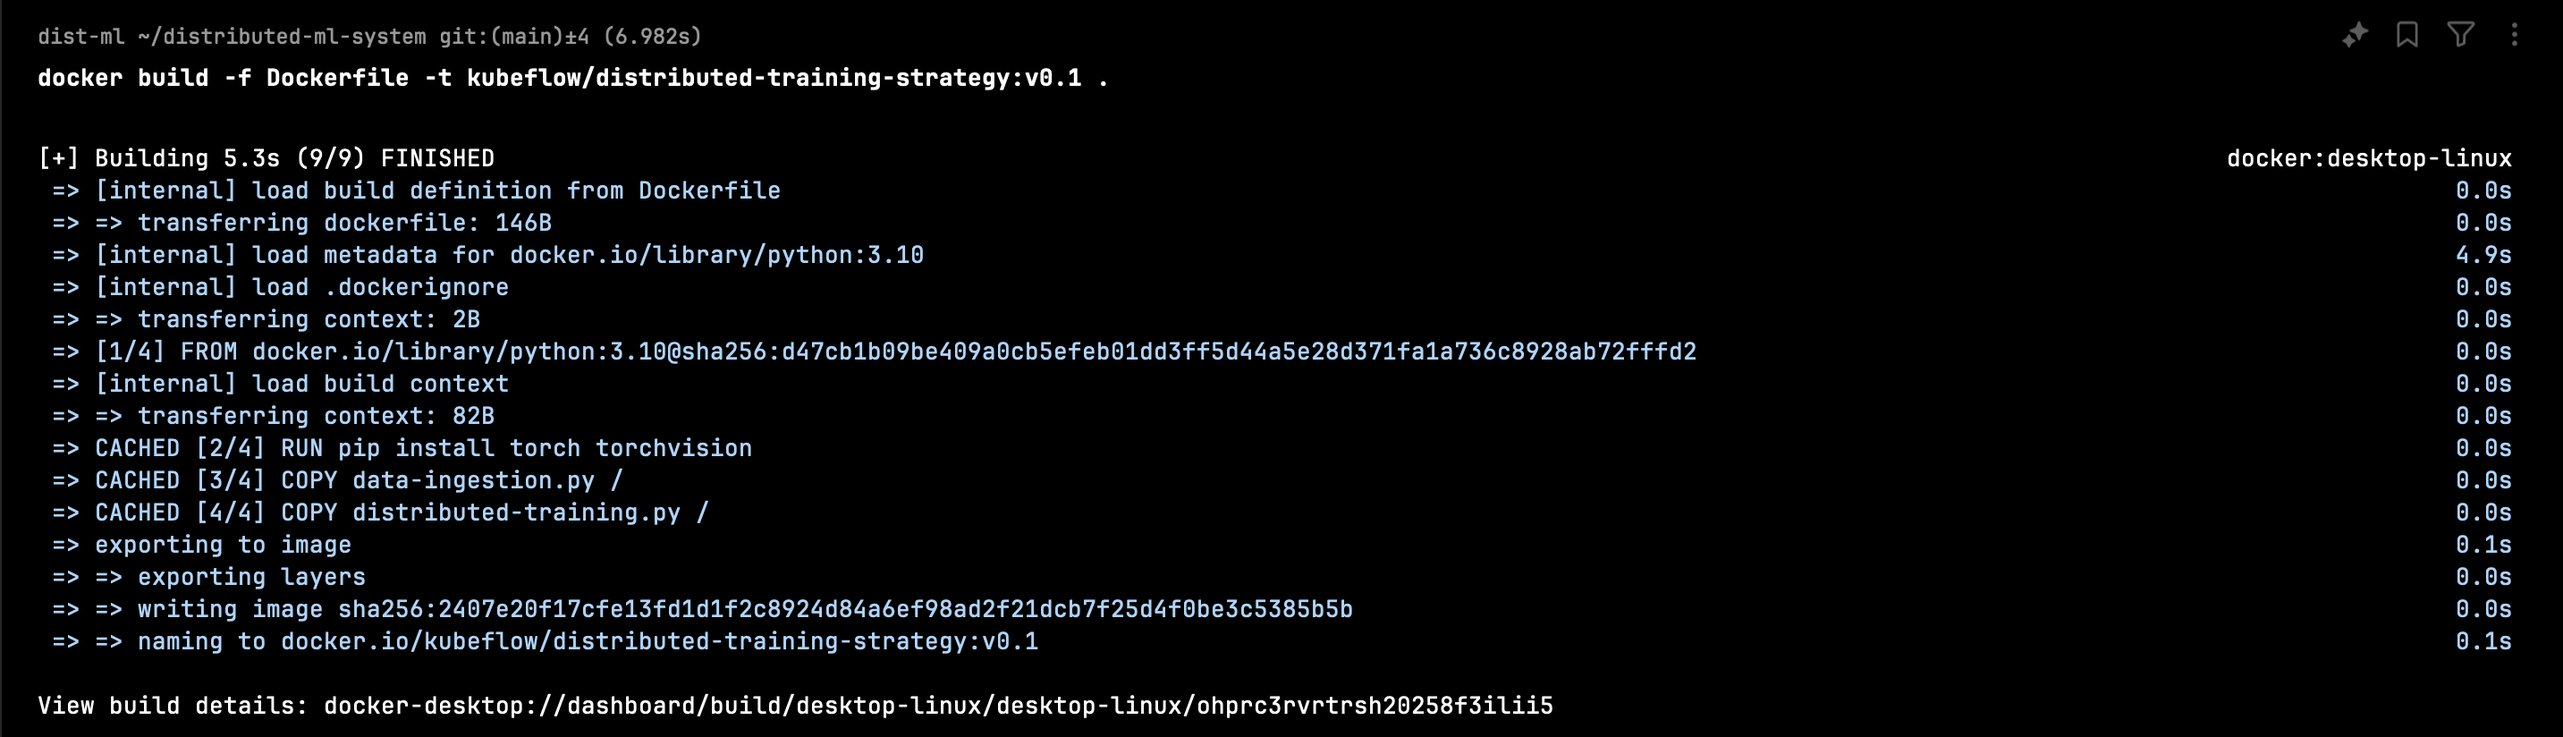
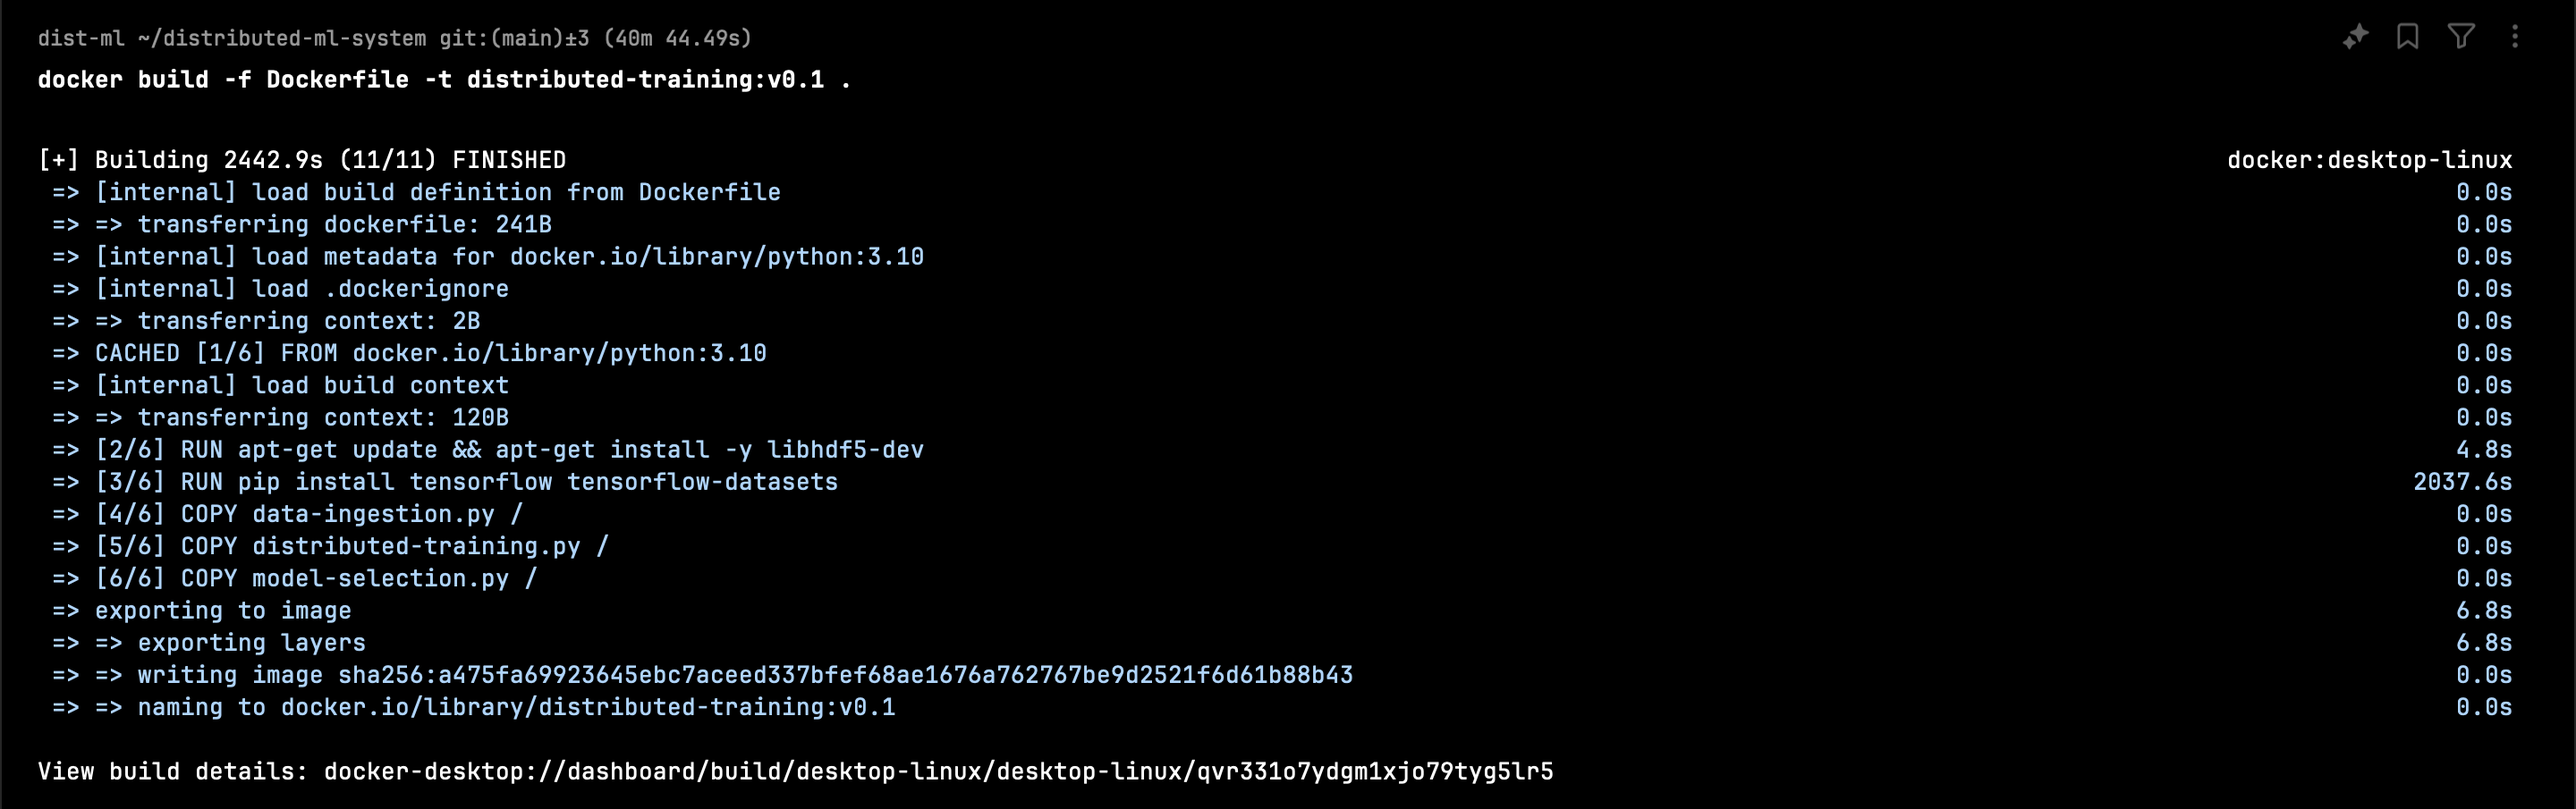
update the docker image name

diff --git a/inference-request.py b/inference-request.py
@@ -1,14 +1,14 @@
 import requests
 import json
 
-input_path = "mnist-input.json"
+input_path = "cifar10-input.json"
 
 with open(input_path) as json_file:
     data = json.load(json_file)
 
 response = requests.post(
-    url="http://localhost:8080/v1/models/tf-mnist:predict",
+    url="http://localhost:8080/v1/models/tf-cifar10:predict",
     data=json.dumps(data),
-    headers={"Host": "tf-mnist.kubeflow.example.com"},
+    headers={"Host": "tf-cifar10.kubeflow.example.com"},
 )
 print(response.text)

diff --git a/data_ingestion.py b/data_ingestion.py
@@ -1,0 +1,18 @@
+import Tensorflow_datasets as tfds
+import Tensorflow as tf
+
+
+def get_dataset():
+    """
+    Download training dataset
+    """
+    BUFFER_SIZE = 10000
+
+    def scale(image, label):
+        image = tf.cast(image, tf.float32)
+        image /= 255
+        return image, label
+
+    datasets, info = tfds.load(name="cifar10", with_info=True, as_supervised=True)
+    train = datasets["train"]
+    return train.map(scale).cache().shuffle(BUFFER_SIZE)

diff --git a/predict-service.py b/predict-service.py
@@ -7,6 +7,9 @@ model = keras.models.load_model("trained_model/saved_model_versions/1")
 
 # Scaling mnist data from (0, 255] to (0., 1.]
 def scale(image, label):
+    """
+    Scale image
+    """
     image = tf.cast(image, tf.float32)
     image /= 255
     return image, label

diff --git a/model-selection.py b/model-selection.py
@@ -7,6 +7,9 @@ import os
 
 # Scale the data from range [0, 255] to range [0, 1]
 def scale(image, label):
+    """
+    Scale image
+    """
     image = tf.cast(image, tf.float32)
     image /= 255
     return image, label

diff --git a/README.md b/README.md
@@ -372,7 +372,7 @@ COPY distributed-training.py /
 Next, build the docker image
 
 ```bash
-docker build -f Dockerfile -t kubeflow/ditributed-training-strategy:v0.1 .
+docker build -f Dockerfile -t kubeflow/distributed-training-strategy:v0.1 .
 ```
 
 ![docker-build](assets/docker-build.png)
@@ -381,7 +381,7 @@ docker build -f Dockerfile -t kubeflow/ditributed-training-strategy:v0.1 .
 I need to import the image to the k3d cluster as it cannot access the image registry.
 
 ```bash
-k3d image import docker.io/kubeflow/ditributed-training-strategy:v0.1 --cluster dist-ml
+k3d image import kubeflow/distributed-training-strategy:v0.1 --cluster dist-ml
 ```
 
 ![k3d-image-import](assets/k3d-image-import.png)
@@ -463,7 +463,7 @@ The `volumes` field specifies the persistent volume claim and `volumeMounts` fie
 Submit the TFJob to our cluster and start our distributed model training.
 
 ```bash
-kubectl create -f tfjob.yaml
+kubectl apply -f tfjob.yaml
 ```
 
 I can see two pods running our distributed training as we've specified `2` workers.
@@ -488,9 +488,9 @@ While training the model, I'm storing it in the `/saved_model_versions/1/` path.
 
 ```bash
 kubectl delete tfjob --all
-docker build -f Dockerfile -t kubeflow/ditributed-training-strategy:v0.1 .
-k3d image import kubeflow/ditributed-training-strategy:v0.1 --cluster fmnist
-kubectl create -f tfjob.yaml
+docker build -f Dockerfile -t kubeflow/distributed-training-strategy:v0.1 .
+k3d image import kubeflow/distributed-training-strategy:v0.1 --cluster dist-ml
+kubectl apply -f tfjob.yaml
 ```
 
 Voila! model training's done.
@@ -498,7 +498,7 @@ Voila! model training's done.
 Next, evaluate the model's performance.
 
 ```bash
-kubectl create -f predict-service.yaml
+kubectl apply -f predict-service.yaml
 ```
 
 Finally, I have a trained model stored in the file path `trained_model/saved_model_versions/2/`.
@@ -861,7 +861,7 @@ The first step is the data ingestion. We have added a `memoize` spec to cache th
       key: "data-ingestion-cache"
     maxAge: "1h"
   container:
-    image: kubeflow/strategy:v0.1
+    image: kubeflow/distributed-training-strategy:v0.1
     imagePullPolicy: IfNotPresent
     command: ["python", "/data-ingestion.py"]
 ```
@@ -907,7 +907,7 @@ Next, we create a step to run distributed training with the CNN model. To create
             spec:
               containers:
                 - name: tensorflow
-                  image: kubeflow/strategy:v0.1
+                  image: kubeflow/distributed-training-strategy:v0.1
                   imagePullPolicy: IfNotPresent
                   command: ["python", "/distributed-training.py", "--saved_model_dir", "/trained_model/saved_model_versions/1/", "--checkpoint_dir", "/trained_model/checkpoint", "--model_type", "cnn"]
                   volumeMounts:
@@ -928,7 +928,7 @@ Next, we add the model selection step. It is similar to `model-selection.yaml` w
 - name: model-selection-step
   serviceAccountName: argo
   container:
-    image: kubeflow/strategy:v0.1
+    image: kubeflow/distributed-training-strategy:v0.1
     imagePullPolicy: IfNotPresent
     command: ["python", "/model-selection.py"]
     volumeMounts:
